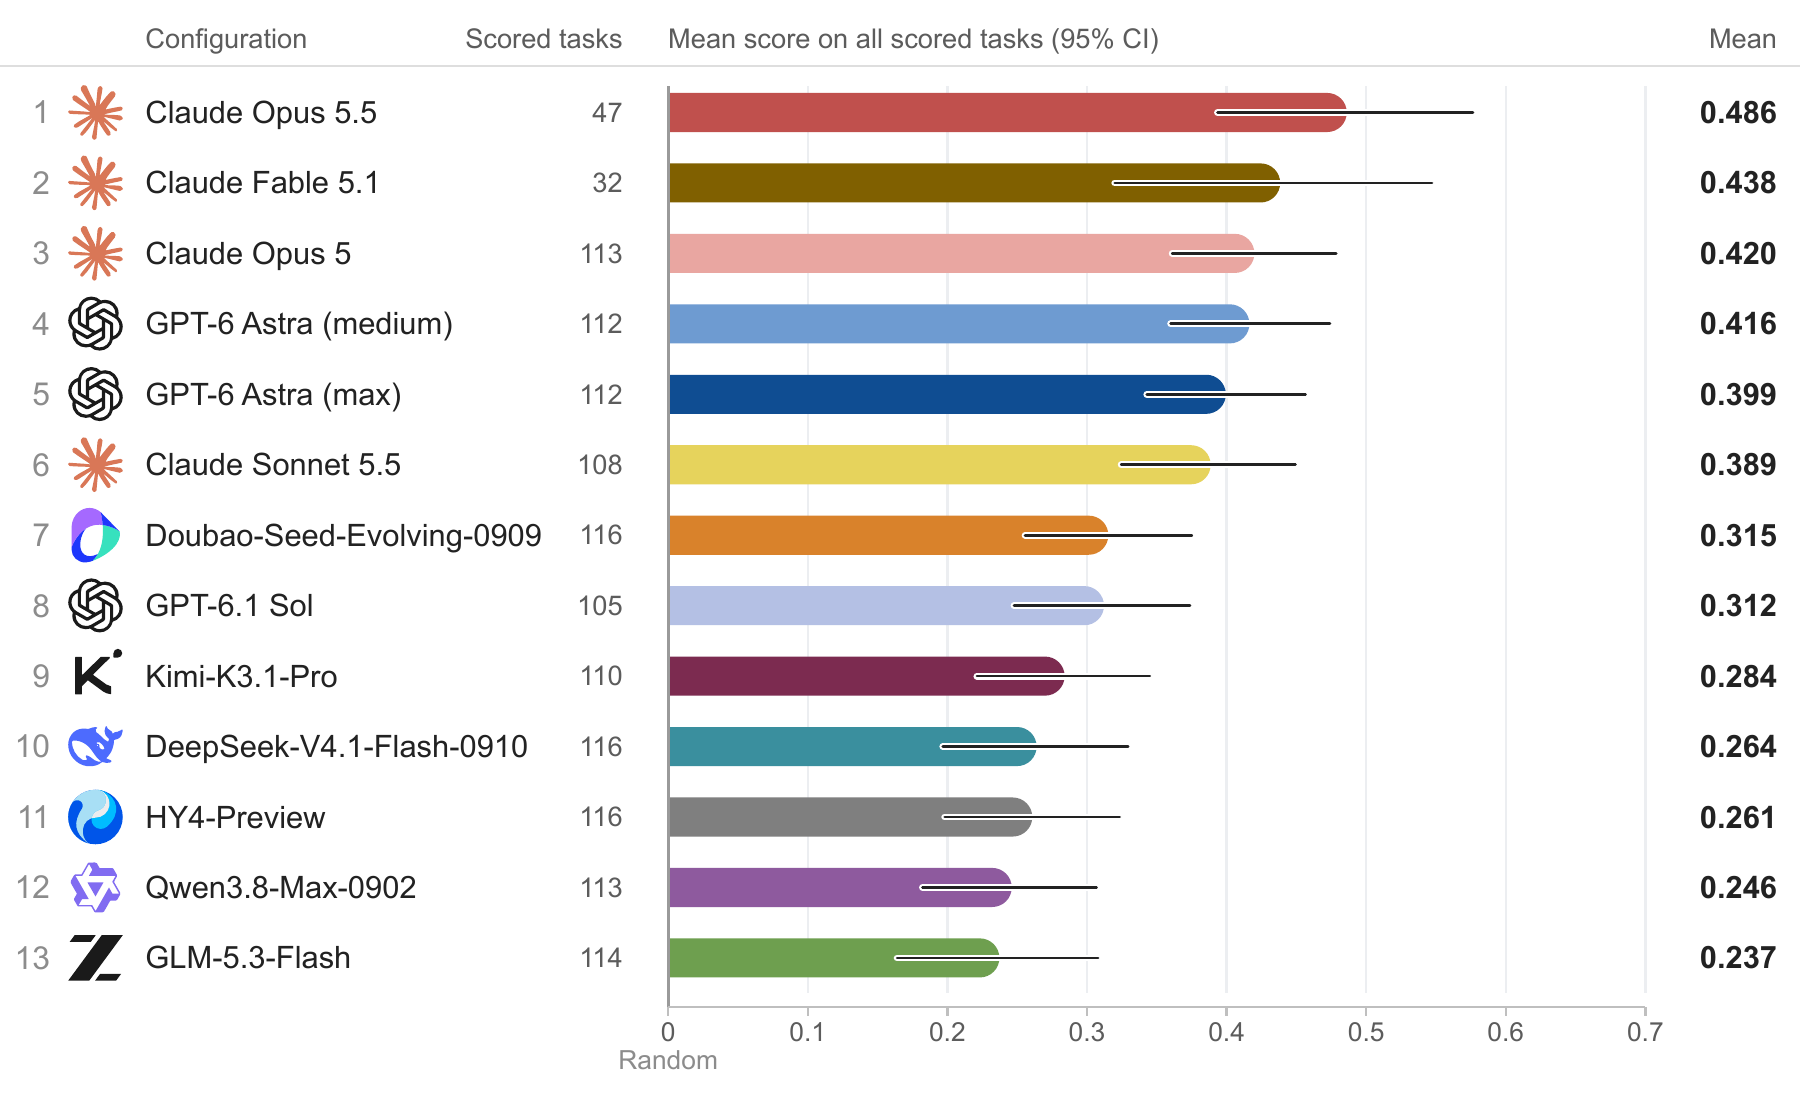
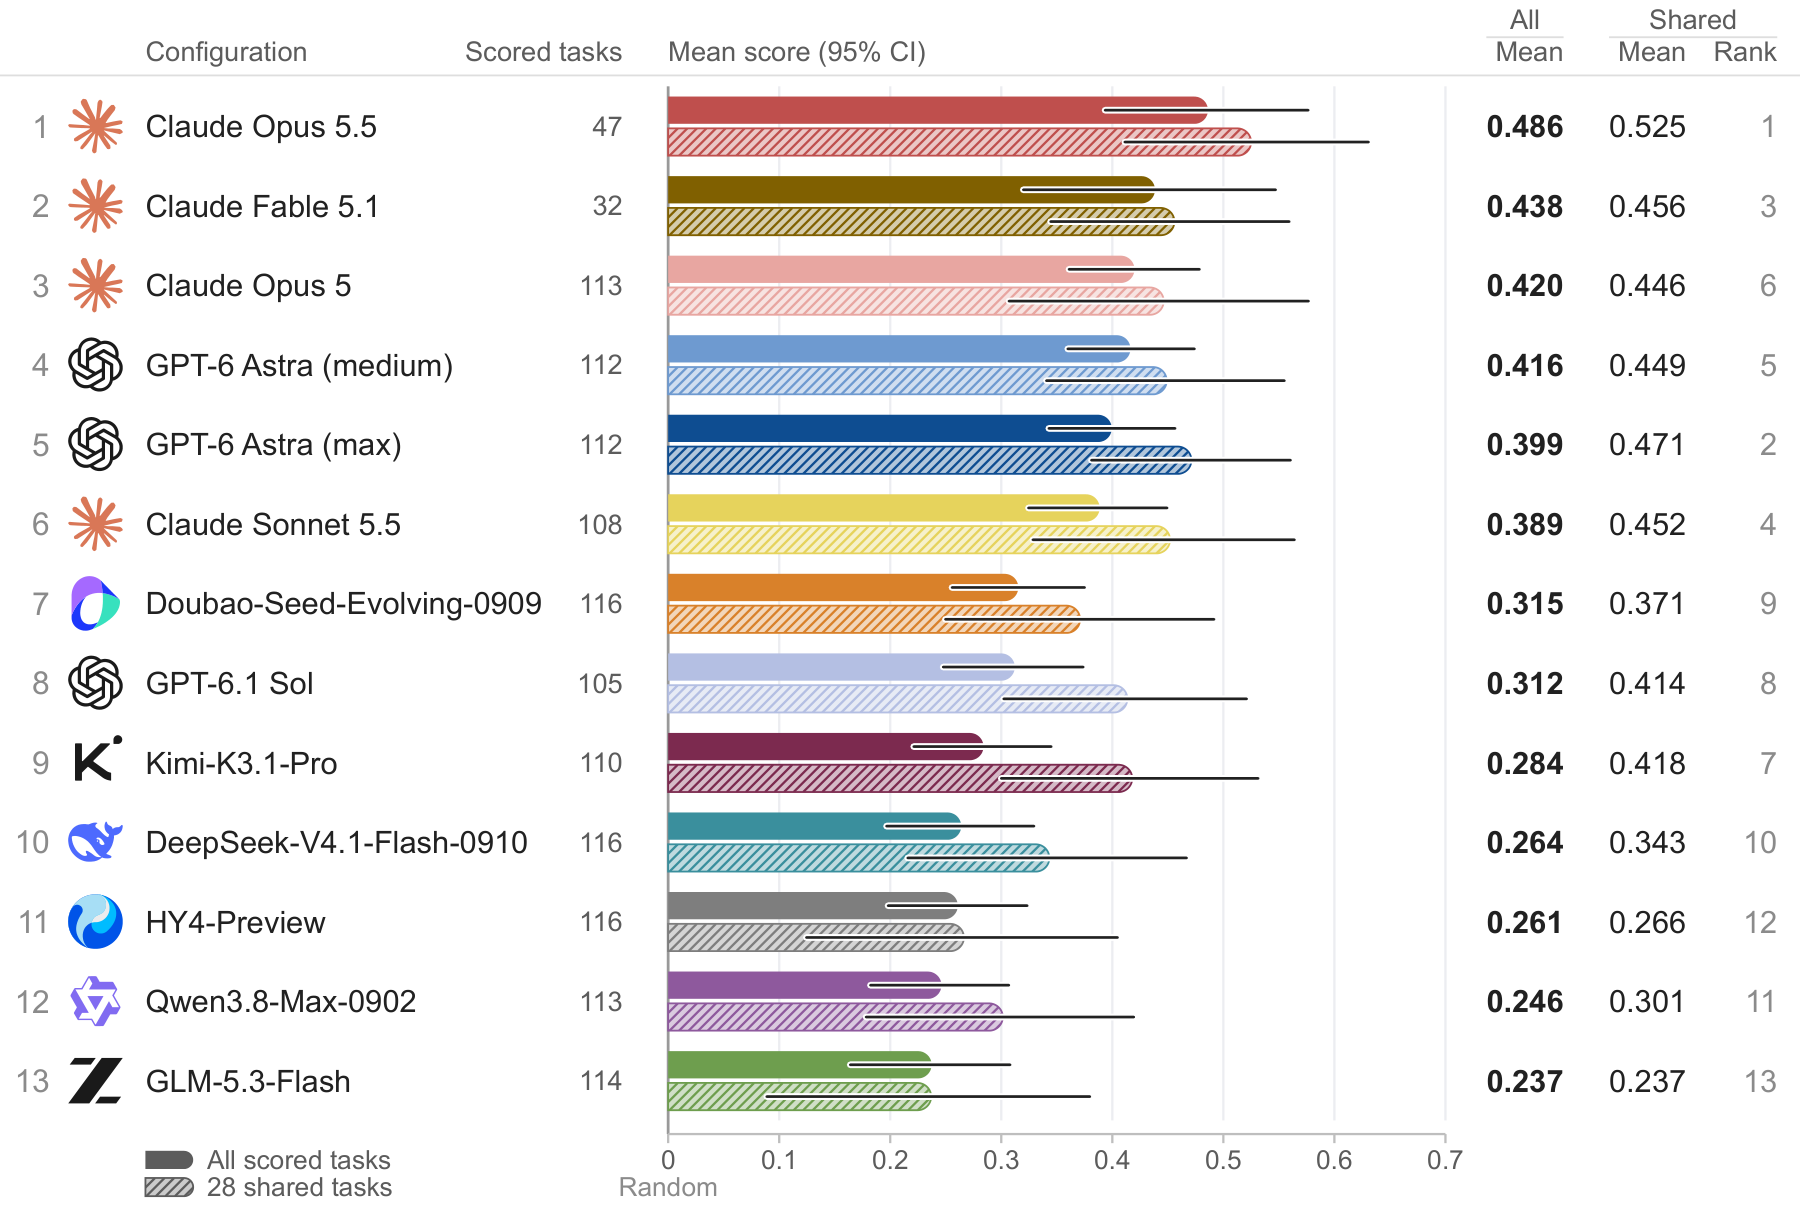
Show the 28 shared tasks in the ranking figure, as in the paper's Figure 1

diff --git a/content/blog/SciencePredictionUniverse.md b/content/blog/SciencePredictionUniverse.md
@@ -147,7 +147,7 @@ HeaderImage: /static/images/sle/spu-ranking-v4.png
 <p>We tested twelve frontier models in thirteen configurations, where a configuration is a model with its reasoning effort and agent harness. GPT-6 Astra ran in Codex at medium and at max reasoning effort. GPT-6.1 Sol also ran in Codex, and the other ten models ran in Claude Code, all at max effort. The main comparison uses one official run per configuration on every task.</p>
 <div class="sle-blog-stats"><article><strong>0.478</strong><p>Best score on the public tasks (task-adjusted Spearman)</p></article><article><strong>34–52%</strong><p>Share of scored tasks above chance, across configurations</p></article><article><strong>12 of 13</strong><p>Configurations above chance on the private tasks</p></article><article><strong>4.8×</strong><p>Longer median runs at max effort, with no detectable score gain</p></article></div>
 
-<figure class="sle-paper-figure"><a href="/static/sle/blog-2026-10-25/pooled-results.png?v=5bf2c2e4b901" target="_blank" rel="noopener noreferrer" aria-label="Open full-size figure: Results across public and private tasks"><img src="/static/sle/blog-2026-10-25/pooled-results.png?v=5bf2c2e4b901" alt="Configurations ranked by mean score over all their scored tasks, public and private, with 95% bootstrap intervals. Claude Opus 5.5 and Claude Fable 5.1 are scored on fewer tasks because most of their runs ended in safety refusals. This chart averages public and private tasks without adjustment, so its numbers differ slightly from the table below." width="1800" height="1028" loading="lazy" decoding="async"></a><figcaption>Configurations ranked by mean score over all their scored tasks, public and private, with 95% bootstrap intervals. Claude Opus 5.5 and Claude Fable 5.1 are scored on fewer tasks because most of their runs ended in safety refusals. This chart averages public and private tasks without adjustment, so its numbers differ slightly from the table below.</figcaption></figure>
+<figure class="sle-paper-figure"><a href="/static/sle/blog-2026-10-25/pooled-results.png?v=1a016afe8042" target="_blank" rel="noopener noreferrer" aria-label="Open full-size figure: Results across public and private tasks"><img src="/static/sle/blog-2026-10-25/pooled-results.png?v=1a016afe8042" alt="Configurations ranked by mean score over all their scored tasks, public and private, with 95% bootstrap intervals. Claude Opus 5.5 and Claude Fable 5.1 are scored on fewer tasks because most of their runs ended in safety refusals. This chart averages public and private tasks without adjustment, so its numbers differ slightly from the table below. Hatched bars show means on the 28 tasks that all thirteen configurations completed (27 public, one private); the right-hand column ranks the configurations on those tasks." width="1800" height="1228" loading="lazy" decoding="async"></a><figcaption>Configurations ranked by mean score over all their scored tasks, public and private, with 95% bootstrap intervals. Claude Opus 5.5 and Claude Fable 5.1 are scored on fewer tasks because most of their runs ended in safety refusals. This chart averages public and private tasks without adjustment, so its numbers differ slightly from the table below. Hatched bars show means on the 28 tasks that all thirteen configurations completed (27 public, one private); the right-hand column ranks the configurations on those tasks.</figcaption></figure>
 
 <p><strong>SPU is far from solved.</strong> Even the best configurations beat chance on only about half of their scored tasks. The point estimates form two broad groups: every difference that holds up statistically (17 pairs after Holm correction) separates configurations in the leading six from those in the other seven, and one run per task is not enough to order the configurations within a tier. Claude Opus 5.5 and Claude Fable 5.1 were scored on fewer tasks because of frequent safety refusals, especially outside materials science, so their averages rest mostly on materials-science tasks.</p>
 <div class="sle-paper-table" tabindex="0" role="region" aria-label="Public tasks · task-adjusted scores and coverage"><table><caption>Public tasks · task-adjusted scores and coverage</caption>
